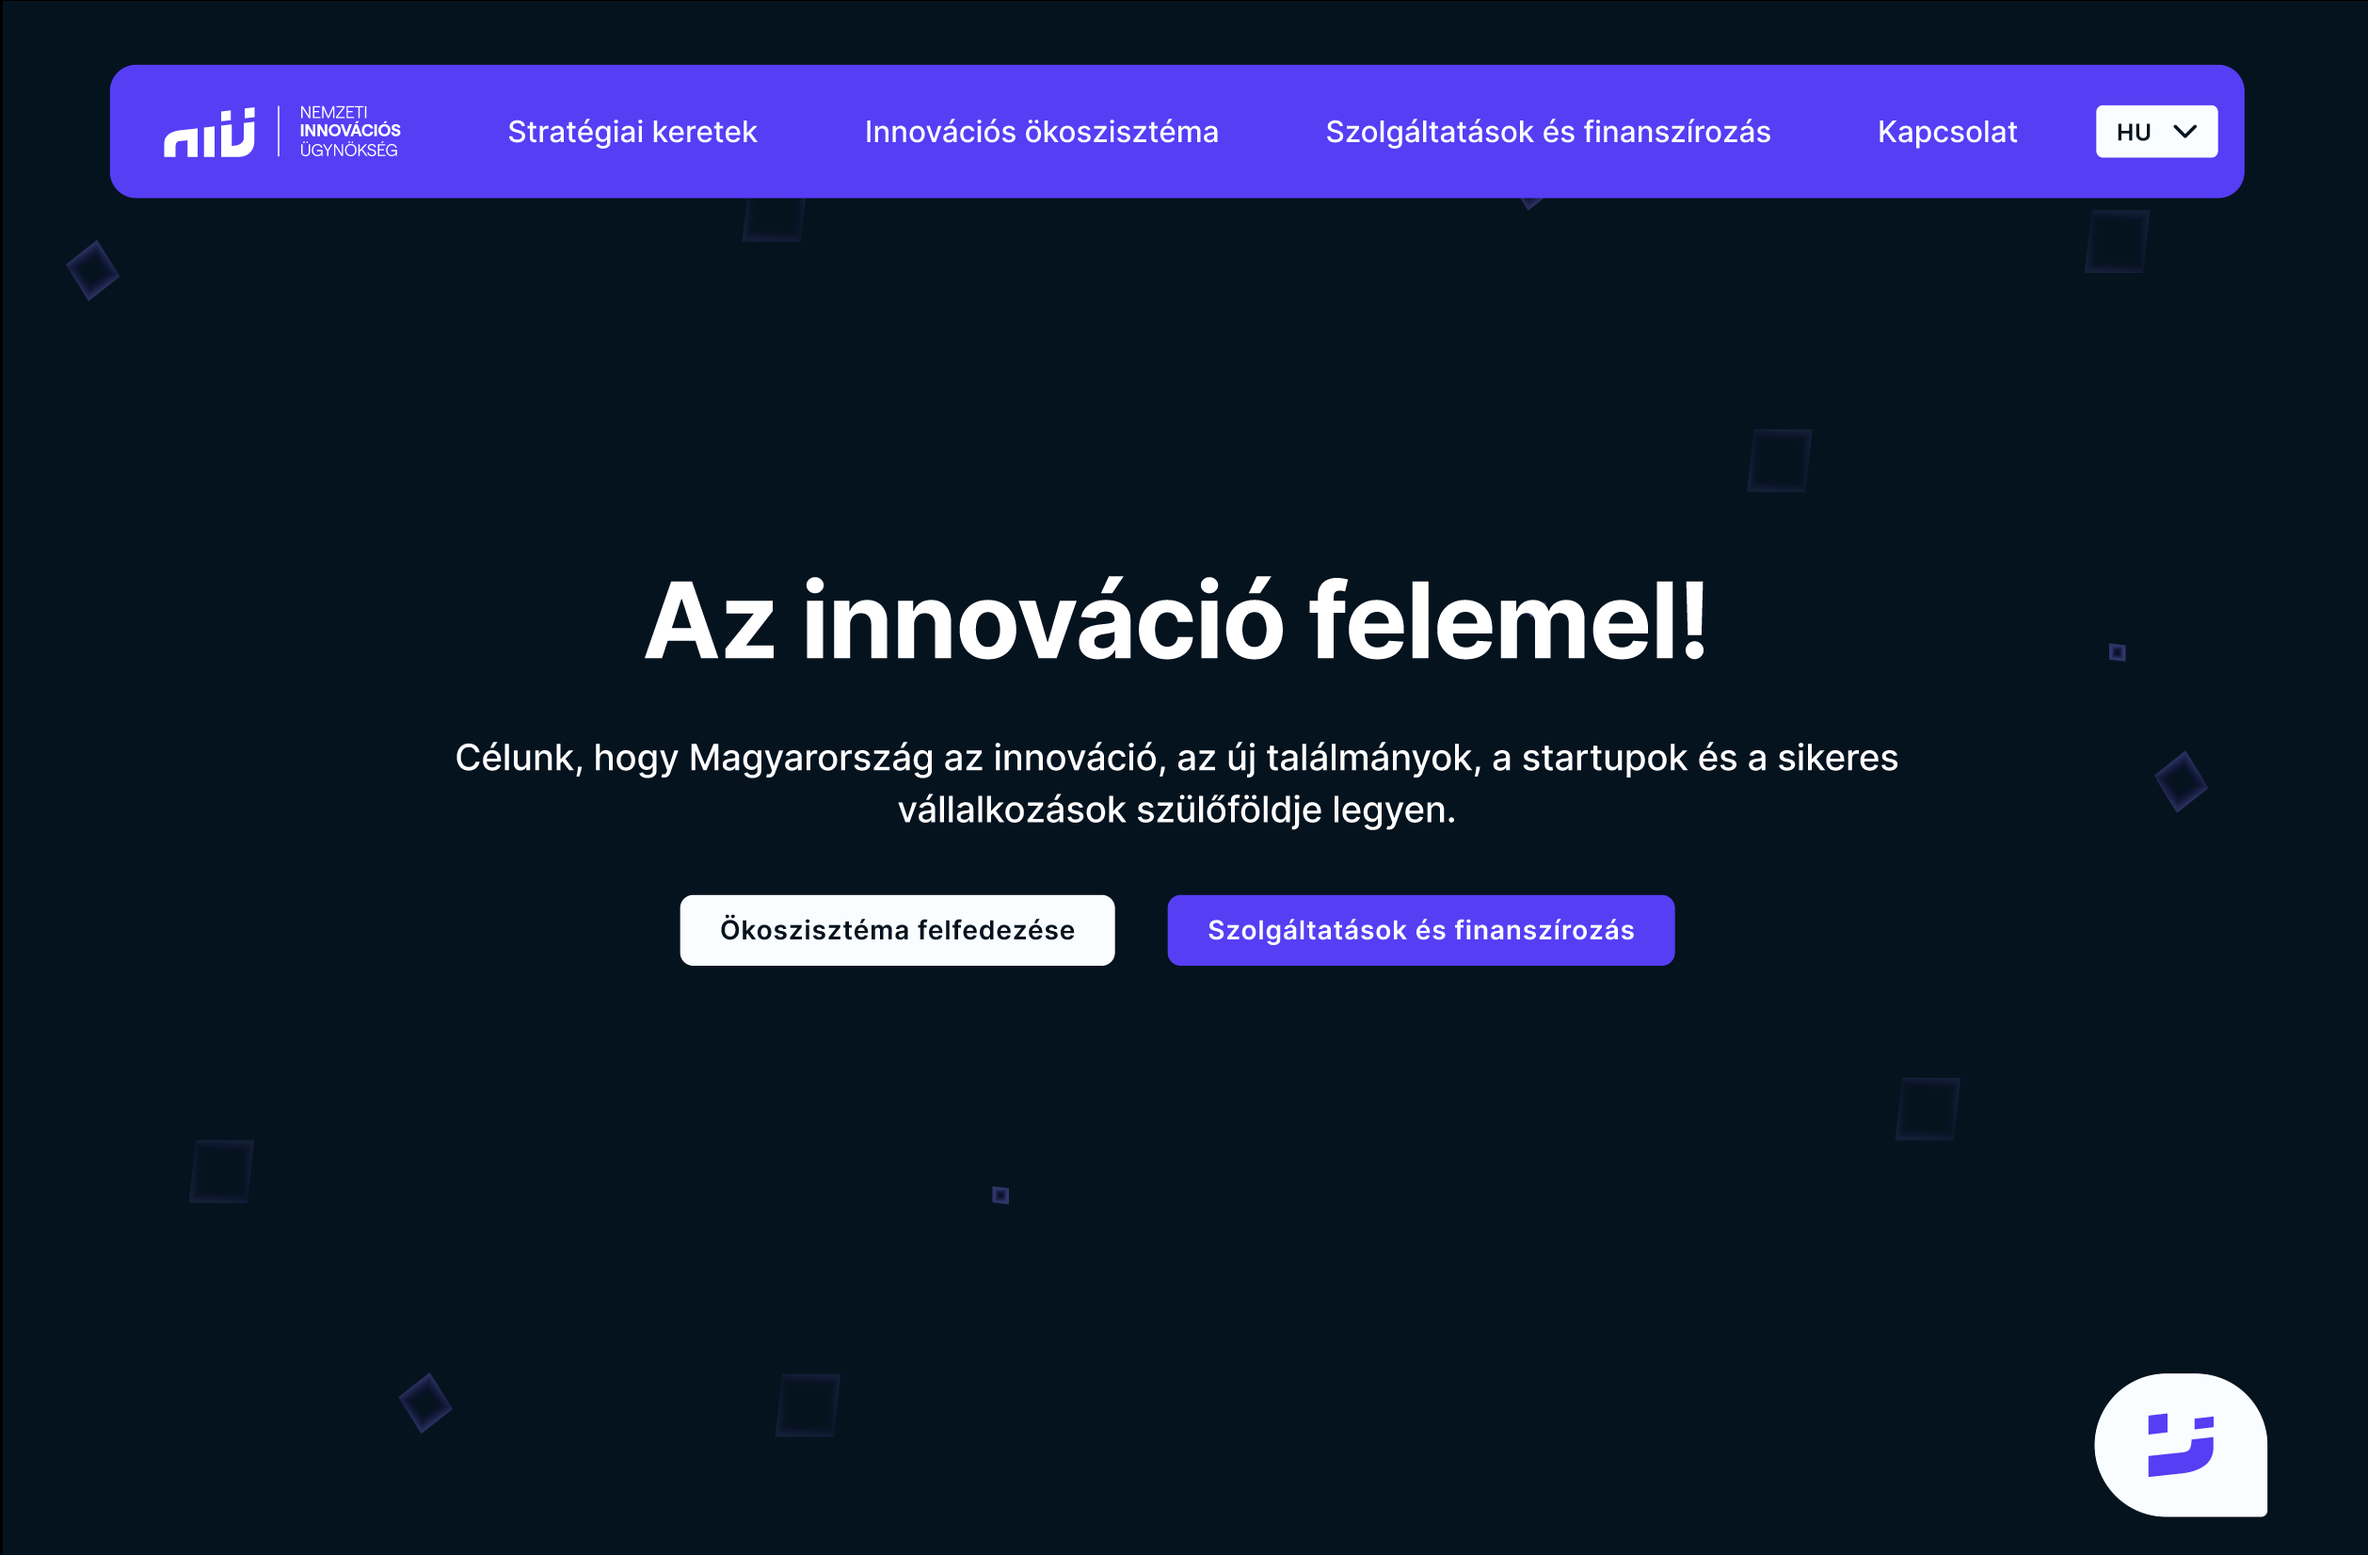
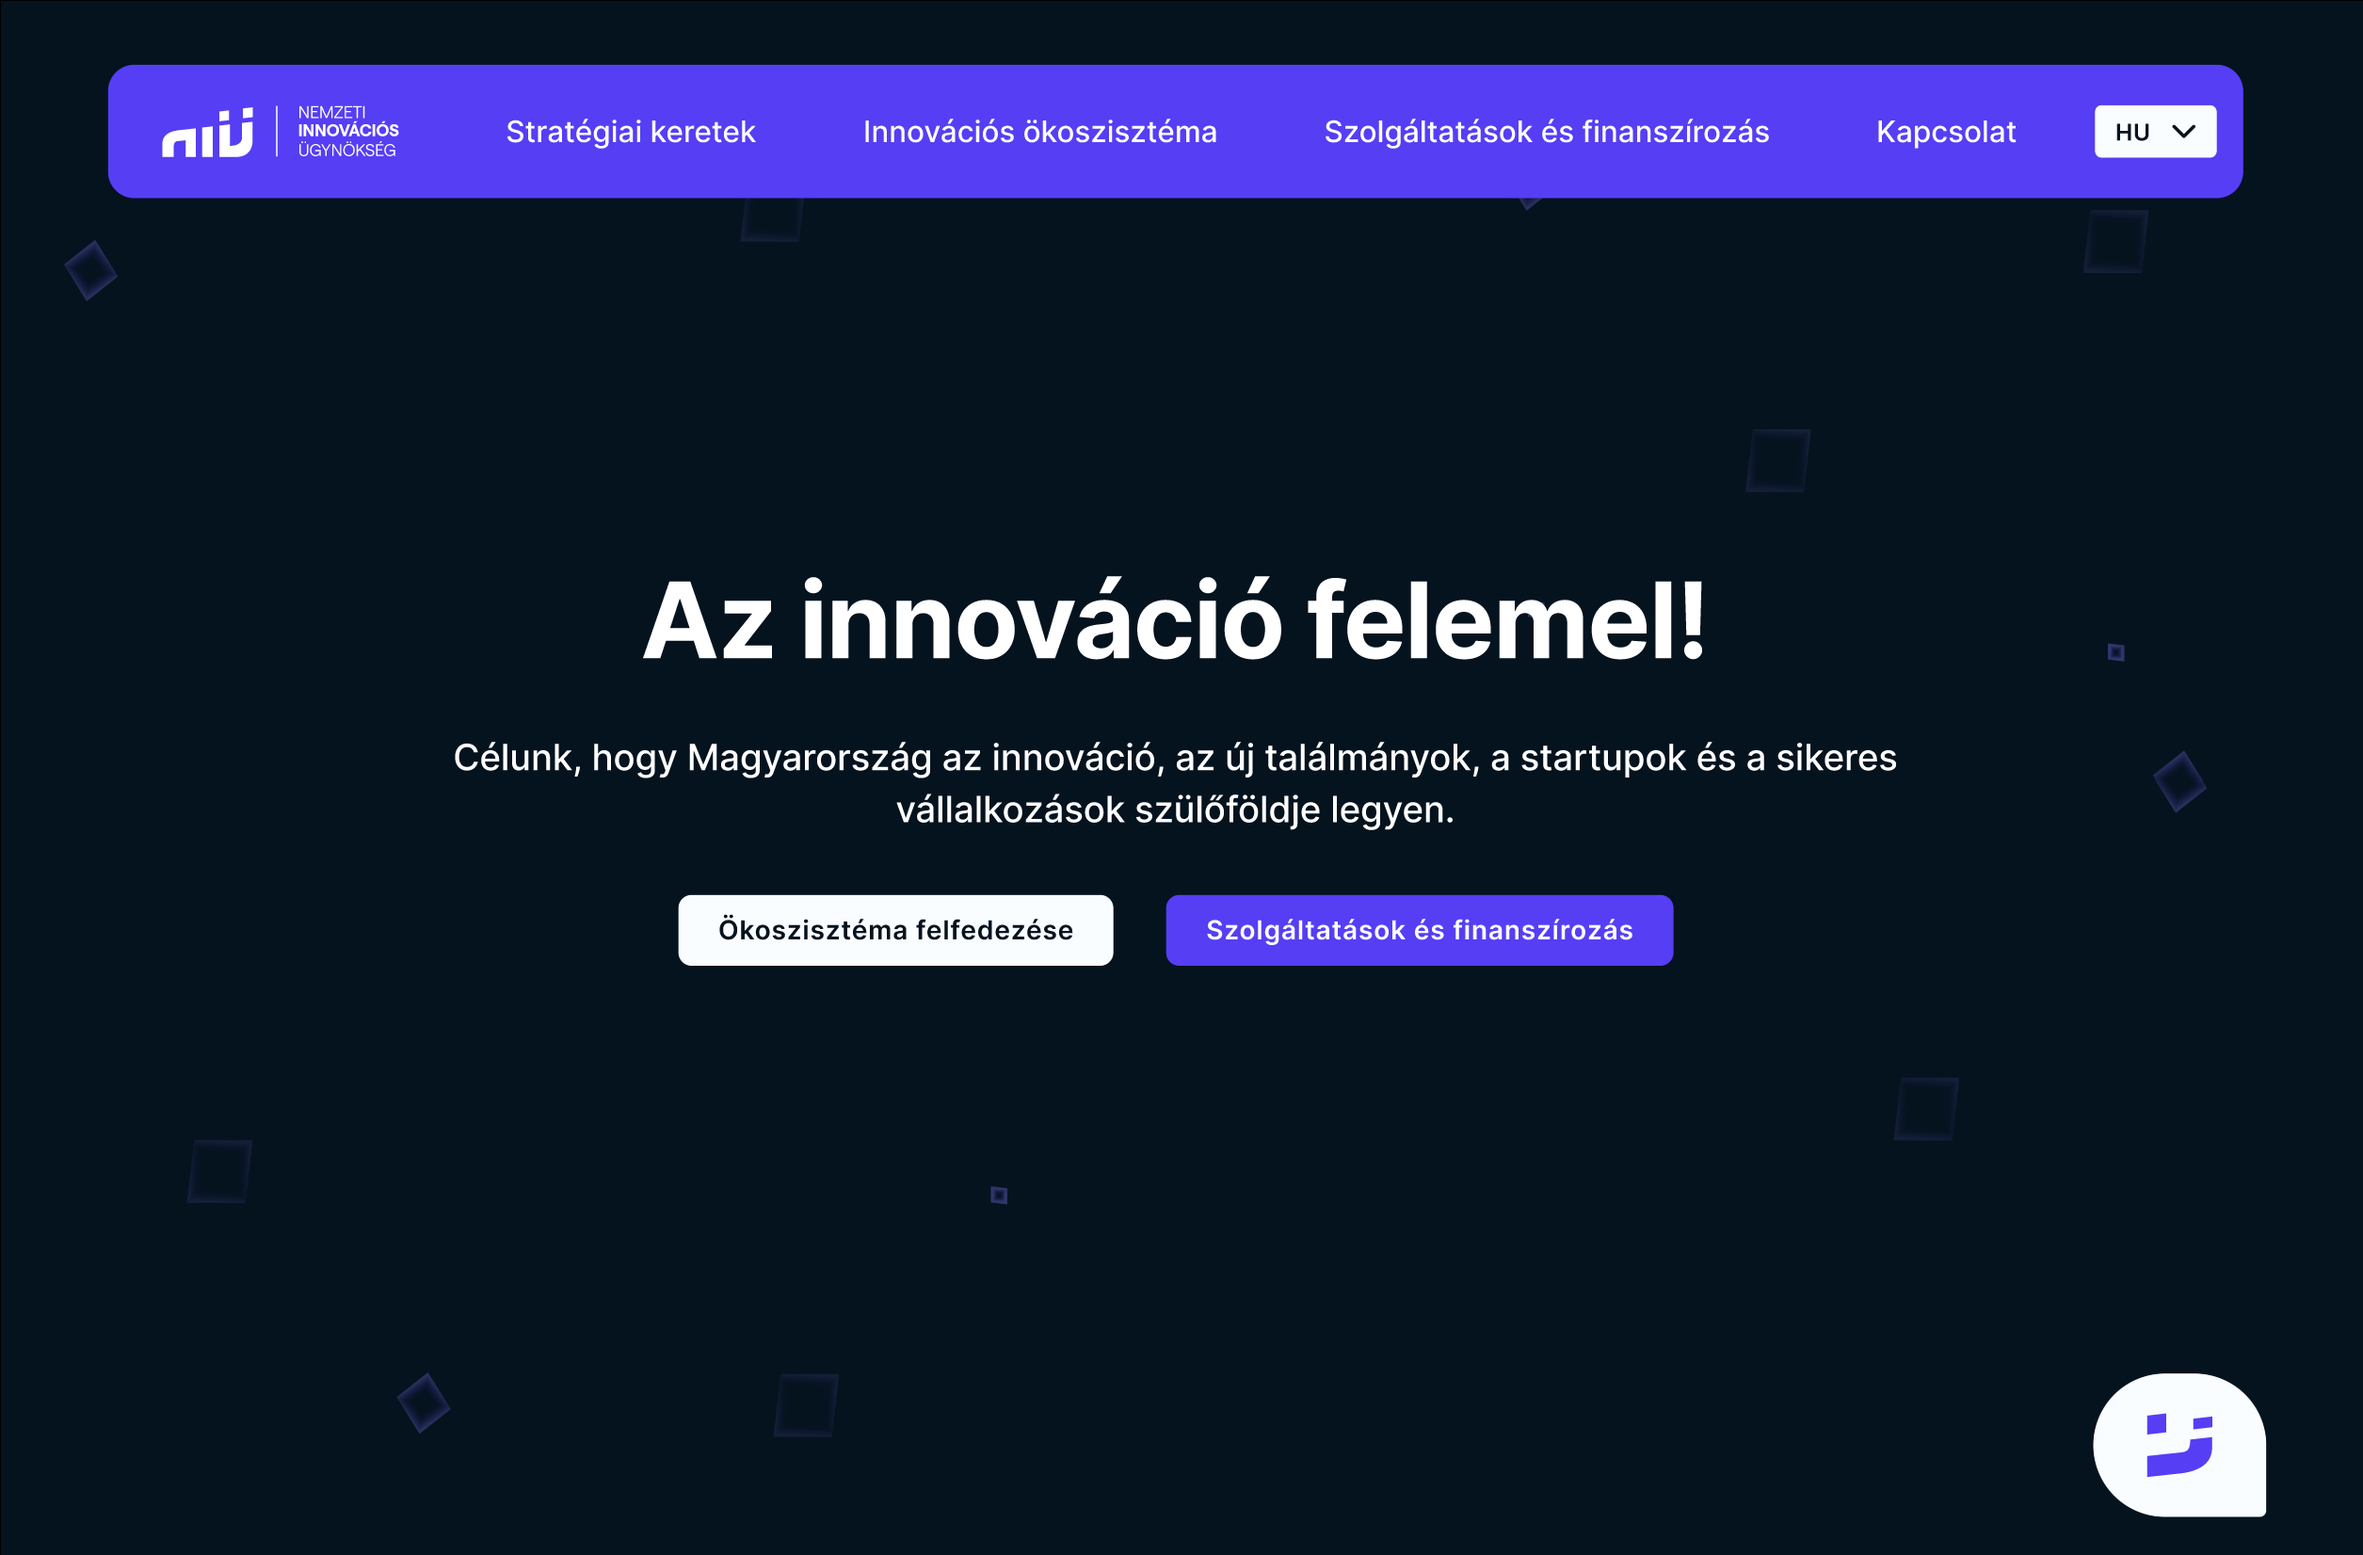
portfolio

diff --git a/index.html b/index.html
@@ -457,20 +457,32 @@
 
             <div class="project-split">
               <div class="project-split-image">
+                <a href="https://www.figma.com/proto/vir7t21s1Laa2buXXEbYr0/EcosystemDesign?page-id=0%3A1&node-id=321-1557&p=f&viewport=416%2C63%2C0.02&t=Q4SKSPKoGsEA0XjG-1&scaling=scale-down&content-scaling=fixed&starting-point-node-id=321%3A1557&show-proto-sidebar=1" target="_blank">
+                  <div class="image-wrapper">
+                    <img src="images/NIÜ/UI_1.png" alt="Project Image Right">
+                    <div class="image-overlay">
+                      <p>Click to open prototype</p>
+                    </div>
+                  </div>
+                </a>
                 <h2 class="split-title"> UI 1</h2>
-                <img src="images/NIÜ/UI_1.png" alt="Project Image Right">
-                <p class="split-description">
-                  Round design.
-                </p>
+                <p class="split-description">Round design.</p>
               </div>
+
               <div class="project-split-image">
+                <a href="https://www.figma.com/proto/vir7t21s1Laa2buXXEbYr0/EcosystemDesign?page-id=0%3A1&node-id=321-1204&p=f&viewport=416%2C63%2C0.02&t=Q4SKSPKoGsEA0XjG-1&scaling=scale-down&content-scaling=fixed&starting-point-node-id=321%3A1204&show-proto-sidebar=1" target="_blank">
+                  <div class="image-wrapper">
+                    <img src="images/NIÜ/UI_2.png" alt="Project Image Right">
+                    <div class="image-overlay">
+                      <p>Click to open prototype</p>
+                    </div>
+                  </div>
+                </a>
                 <h2 class="split-title"> UI 2</h2>
-                <img src="images/NIÜ/UI_2.png" alt="Project Image Right">
-                <p class="split-description">
-                  Sleek design.
-                </p>
+                <p class="split-description">Sleek design.</p>
               </div>
             </div>
+
 
 
             
@@ -561,7 +573,7 @@
 
     <section class="page" id="about">
       <div class="about-section">
-        
+       
         <!-- Hero Section -->
         <div class="about-hero">
           <div class="hero-left">
@@ -570,6 +582,7 @@
           <div class="hero-right">
             <h1>Hi, I am Liliána Bitó</h1>
             <p>I am a creative designer driven by the thrill of creating new, beautiful and meaningful things for the world around me.</p>
+            <button class="scroll-to-portfolio">Take a look at my portfolio</button>
           </div>
         </div>
 
@@ -645,10 +658,10 @@
         </div>
 
         <!-- Portfolio Preview -->
-        <div class="about-block pdf-card">
+        <div class="about-block pdf-card" id="portfolio">
           <h2>Portfolio</h2>
           <p class="pdf-intro-text">Take a look at my previous projects, that haven't made it to the website just yet:</p>
-          <a href="documents/portfolio_Liliana_Bito.pdf" download>
+          <a href="documents/portfolio_Liliana_Bito.pdf" download target="_blank">
             <img src="images/portfolio-preview.jpg" alt="PDF Preview" class="pdf-image">
           </a>
         </div>

diff --git a/style.css b/style.css
@@ -422,7 +422,7 @@ body::-webkit-scrollbar,
 
 .split-number-3 {
   font-size: 1.5rem;
-  background: #3b1fc9;
+  background: rgb(59, 31, 201);
   color: #fff;
   padding: 0.3rem 0.8rem;
   border-radius: 8px;
@@ -536,16 +536,46 @@ body::-webkit-scrollbar,
   padding: 0 20px;
 }
 
-.video-wrapper {
-  flex: 1 1 45%;
-  min-width: 300px;
+.image-wrapper {
+  border-radius: 12px;
+  position: relative;
+  display: block;
+  overflow: hidden;
 }
 
-.video-wrapper video {
+.image-wrapper img {
   width: 100%;
-  border-radius: 12px;
-  box-shadow: 0 8px 20px rgba(0, 0, 0, 0.08);
+  height: auto;
+  transition: filter 0.3s ease;
 }
+
+.image-overlay {
+  position: absolute;
+  top: 0;
+  left: 0;
+  height: 100%;
+  width: 100%;
+  background: rgba(59, 31, 201, 0.5);
+  color: white;
+  font-weight: bold;
+  font-size: 1rem;
+  display: flex;
+  align-items: center;
+  justify-content: center;
+  opacity: 0;
+  transition: opacity 0.3s ease;
+  text-align: center;
+  padding: 1rem;
+}
+
+.image-wrapper:hover img {
+  filter: blur(3px);
+}
+
+.image-wrapper:hover .image-overlay {
+  opacity: 1;
+}
+
 
 
 .figma-prototype-btn {
@@ -738,6 +768,26 @@ body::-webkit-scrollbar,
   max-width: 1200px;
   margin: 0 auto;
 }
+
+.scroll-to-portfolio {
+  display: inline-flex;
+  margin-top: 20px;
+  padding: 12px 20px;
+  background-color: #f3e5c6;
+  color: #000;
+  font-size: 1rem;
+  border: none;
+  border-radius: 8px;
+  cursor: pointer;
+  z-index: 999;
+  box-shadow: 0 3px 9px rgba(133, 74, 25, 0.15);
+  transition: background-color 0.3s ease;
+}
+
+.scroll-to-portfolio:hover {
+  background-color: #f1bf33;
+}
+
 
 .about-hero {
   display: flex;

diff --git a/script.js b/script.js
@@ -135,3 +135,18 @@ function scrollToNext(currentButton) {
 
 //carousel//
 
+//scroll to portfolio//
+
+const portfolioBtn = document.querySelector('.scroll-to-portfolio');
+  const portfolioSection = document.querySelector('#portfolio');
+
+  // Show only if on #about section
+  if (window.location.hash === "#about" || document.getElementById("about")) {
+    portfolioBtn.style.display = 'block';
+  } else {
+    portfolioBtn.style.display = 'none';
+  }
+
+  portfolioBtn.addEventListener('click', () => {
+    portfolioSection.scrollIntoView({ behavior: 'smooth' });
+  });
